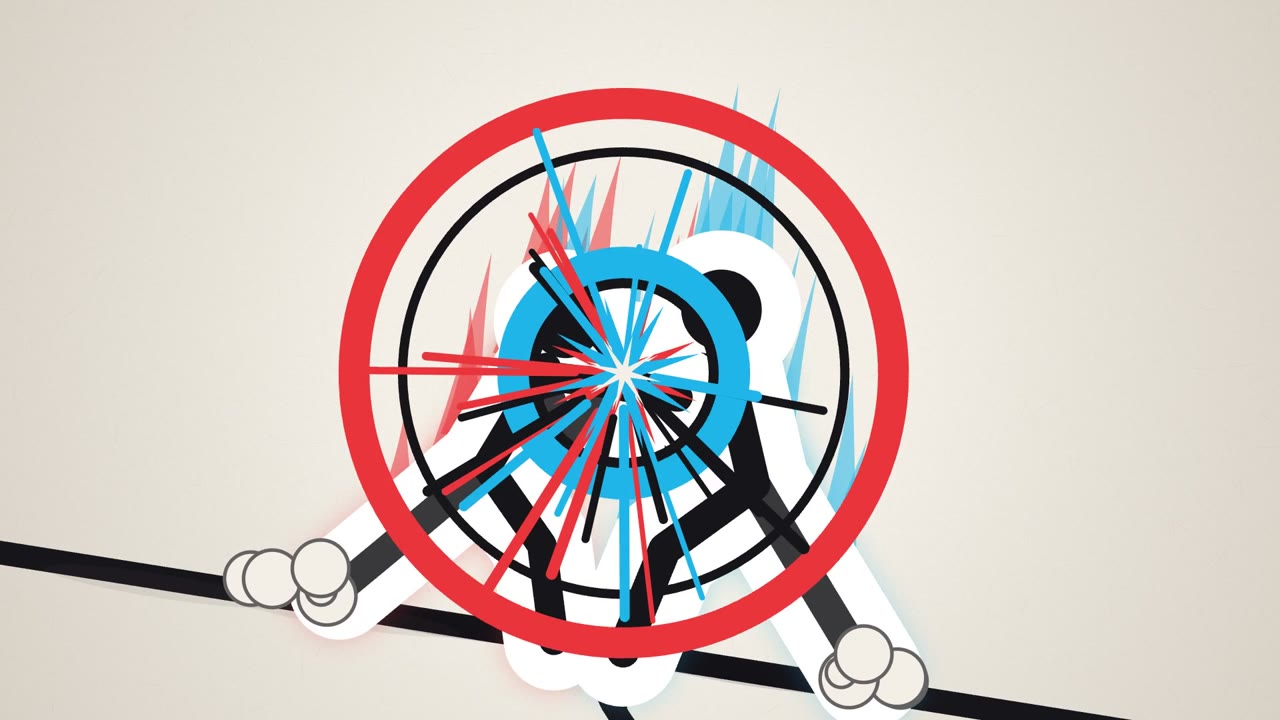
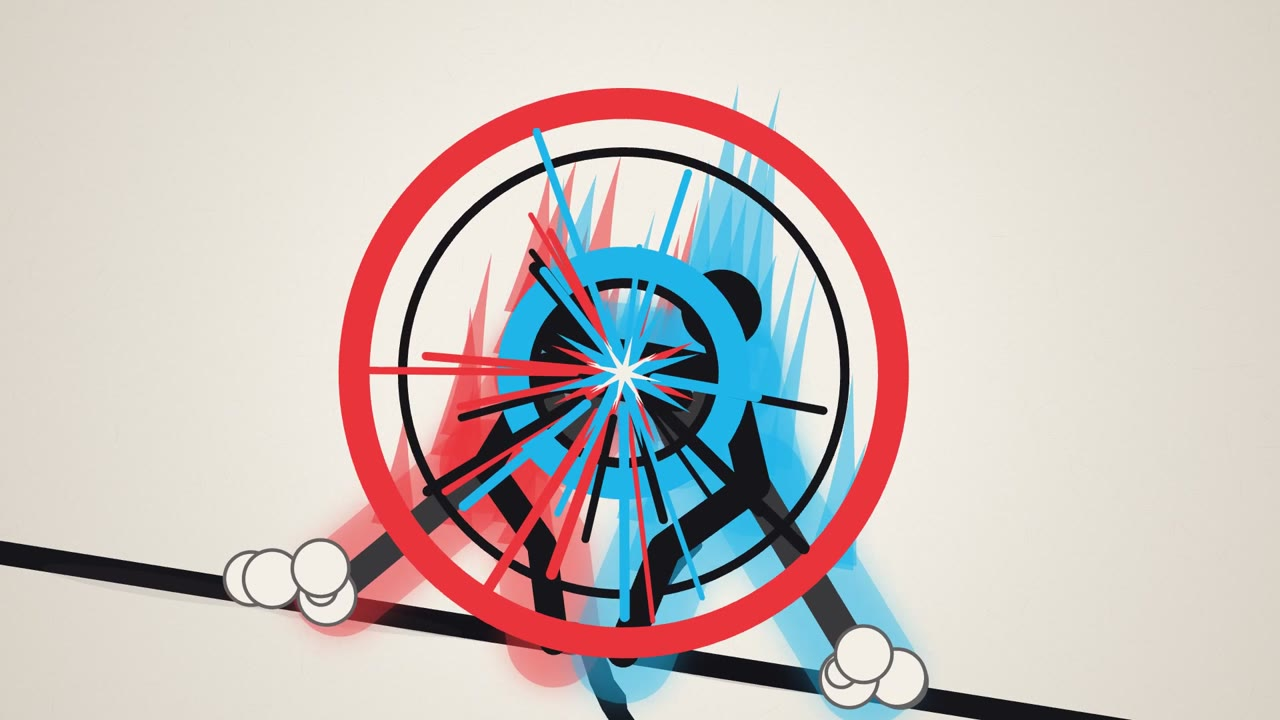
Stickman Action: no outline around the figures
Figures are plain ink strokes on the paper; readability comes from side-on staging,
space between the fighters and the lighter far limbs. Film, poster, stills and frames
re-rendered.

Changed region(s): [[0.2188, 0.3056, 0.7188, 1.0], [0.375, 0.3361, 0.4688, 0.4889], [0.4375, 0.4889, 0.4688, 0.5194]]

diff --git a/styles/stick-action/demo/stick.js b/styles/stick-action/demo/stick.js
@@ -65,24 +65,15 @@ export function mixCol(a, b, t) {
   return '#' + [16, 8, 0].map(s => c(s).toString(16).padStart(2, '0')).join('');
 }
 
-// draw: a white outline pass under the whole figure, then ink; far limbs lightened.
-// o: { ink, outline (colour), farMix, halo (width multiplier), alpha, only: ['aN', ...] }
-export const OUTLINE = '#ffffff';
+// draw: plain ink strokes, no outline; far limbs lightened. o: { ink, farMix, wk (width multiplier), alpha, only: ['aN', ...] }
 export function drawFigure(g, J, o = {}) {
-  const ink = o.ink || INK, out = o.outline || o.paper || OUTLINE, w = J.P.w * (o.wk || 1);
+  const ink = o.ink || INK, w = J.P.w * (o.wk || 1);
   const far = mixCol(ink, PAPER, o.farMix ?? .16);
   const pl = (pts) => { g.beginPath(); g.moveTo(pts[0][0], pts[0][1]); for (let i = 1; i < pts.length; i++) g.lineTo(pts[i][0], pts[i][1]); g.stroke(); };
   g.save(); g.lineCap = 'round'; g.lineJoin = 'round'; if (o.alpha != null) g.globalAlpha = o.alpha;
   const parts = [['aF', far], ['lF', far], ['spine', ink], ['lN', ink], ['aN', ink]].filter(p => !o.only || o.only.includes(p[0]));
-  const strokeOf = (name) => name === 'spine' ? [J.hip, J.neck] : J[name];
-  // the outline goes under the whole figure first, so it never bites into the figure's own strokes;
-  // a figure drawn after another still cuts a clean white gap into it
-  if (o.halo !== 0) {
-    g.strokeStyle = out; g.fillStyle = out; g.lineWidth = w * (o.halo || 3.4);
-    for (const [name] of parts) { pl(strokeOf(name)); if (name === 'spine') { g.beginPath(); g.arc(J.head[0], J.head[1], J.P.head + w * 1.2, 0, 7); g.fill(); } }
-  }
   for (const [name, col] of parts) {
-    g.strokeStyle = col; g.lineWidth = w; pl(strokeOf(name));
+    g.strokeStyle = col; g.lineWidth = w; pl(name === 'spine' ? [J.hip, J.neck] : J[name]);
     if (name === 'spine') { g.fillStyle = ink; g.beginPath(); g.arc(J.head[0], J.head[1], J.P.head, 0, 7); g.fill(); }
   }
   g.restore();

diff --git a/styles/stick-action/demo/fx.js b/styles/stick-action/demo/fx.js
@@ -120,7 +120,7 @@ export function aura(g, J, col, t, amt = 1, seed = 5) {
   if (amt <= 0) return;
   g.save();
   g.shadowColor = col; g.shadowBlur = 40 * amt;
-  drawFigure(g, J, { ink: col, paper: col, halo: 0, wk: 1 + 2.2 * amt, alpha: .35 * amt, farMix: 0 });
+  drawFigure(g, J, { ink: col, wk: 1 + 2.2 * amt, alpha: .35 * amt, farMix: 0 });
   g.shadowBlur = 0;
   const R = rng(seed + Math.floor(t * 24) * 13);
   g.fillStyle = col; g.globalAlpha = .55 * amt;

diff --git a/styles/stick-action/STYLE.md b/styles/stick-action/STYLE.md
@@ -16,7 +16,7 @@ Not Pictogram Motion (geometric signage figures, beat-locked cards), not Whitebo
 ## 2. Materials & rendering
 
 - **Strokes.** Canvas 2D paths, `lineCap` and `lineJoin` round. Stroke width is a property of the figure in world units, about **1/13 of the figure's standing height**, and scales with the camera like everything else in the world. Head diameter ≈ 2.3 stroke widths × 2.2 (about 1/5.5 of the height), always filled.
-- **White outline.** Every figure is drawn twice: first all its strokes about 3.4× wider in pure white (the head disc grown by ~1.2 stroke widths), then in ink. The whole outline goes down before any ink, so it never bites into the figure's own strokes; where two fighters overlap, the one drawn later cuts a clean white gap into the other. The far arm and leg are 12–18 % lighter (ink mixed toward paper), never coloured.
+- **No outline.** Figures are plain ink strokes straight on the paper, never outlined or haloed. Readability comes from staging instead: side-on poses, space between the fighters, and the far arm and leg drawn first and 12–18 % lighter (ink mixed toward paper), never coloured.
 - **Rig.** A skeleton with fixed bone lengths: hips → spine → neck → head; shoulders and hips each carry a two-bone limb solved by analytic IK (target point + bend direction). Poses are keyframes of joint angles or end-effector targets, interpolated per frame; nothing is drawn by hand-moving points. Bone lengths never change except in a deliberate smear (§8).
 - **Ground and contact.** One horizontal ink line, slightly thinner than the figure stroke, extending past the frame. Feet planted on it are locked to it (IK target pinned) until they lift. A flat grey ellipse under each figure shrinks and lightens with height above the ground: the only shading in the style.
 - **Paper.** A warm off-white with a very faint, static grain fixed to the screen (not the world), plus a soft vignette. No paper texture moves, no line boils.
@@ -33,7 +33,7 @@ Not Pictogram Motion (geometric signage figures, beat-locked cards), not Whitebo
 ## 4. Type & subtitles
 
 - Titles and callouts: a heavy condensed sans (e.g. Anton, OFL) in ink, set large, with a thick accent bar under or behind them; they slam in on a hit (scale 1.3 → 1 in 3 frames, one-frame hold of an offset ink shadow). CJK: a heavy sans (e.g. Noto Sans SC Black, subset).
-- On-screen sound words or move names, if used, are part of the drawing: ink letters with a white outline, tilted, held ≥ 1 s.
+- On-screen sound words or move names, if used, are part of the drawing: ink letters, tilted, held ≥ 1 s.
 - Subtitles: a semi-condensed sans (e.g. Barlow Semi Condensed 600, 46–54 px) in ink with a 7–9 px paper-colour outline, centred ~90 px above the bottom; they never sit over a figure's contact point. Hold ≥ max(1.8 s, speech + 0.6 s).
 
 ## 5. Motion quality
@@ -89,7 +89,7 @@ A menu: use the ones your story needs.
 - Limbs that stretch or shrink between keys look broken → solve with fixed-length IK; only smears may stretch.
 - Knees and elbows flipping direction mid-move → give every limb an explicit bend side and keep it unless the pose changes deliberately.
 - Feet sliding on the ground → pin planted feet with IK targets until they lift.
-- Two black figures merging into one blob → side-on staging, space between them, the white outline, the far limbs lightened.
+- Two black figures merging into one blob → side-on staging, clear space between them, the far limbs lightened; never fix it with an outline.
 - Fast motion strobing at 24 fps → smears for limbs that move more than ~1/3 of the figure height per frame.
 - Action too fast to read → holds before strikes, hit-stop on hits, never more than one new action every ~0.4 s for a reader to follow.
 - Line weight changing when the camera zooms → stroke width in world units, transformed with the camera.
@@ -98,7 +98,7 @@ A menu: use the ones your story needs.
 
 ## 10. Engine
 
-In `demo/`: `stick.js` (rig: `figure(pose)` builds joint positions from angles and IK targets with fixed bone lengths, `drawFigure(g, J, o)` draws the white outline + ink with far-limb lightening, `lerpPose`, `ik2`), `moves.js` (pose library and keyframe tracks: stance, guard, punch, kick, dash, jump, block, hit, fall, rise), `fx.js` (smears, speed lines, sparks, dust, shockwave, ground cracks, energy aura and beams), `cam.js` (world → screen camera with zoom, pan, shake, tilt, time remap), `main.js` (shots, paper, title cards, sound events), `music.py` (synthesised score), `mix.py`. A minimal new use: one figure skipping rope, with the rope as a flat ink arc and its slap on the ground as a dust puff, drawn with `figure`, `drawFigure` and `dust`.
+In `demo/`: `stick.js` (rig: `figure(pose)` builds joint positions from angles and IK targets with fixed bone lengths, `drawFigure(g, J, o)` draws the ink strokes with far-limb lightening, `lerpPose`, `ik2`), `moves.js` (pose library and keyframe tracks: stance, guard, punch, kick, dash, jump, block, hit, fall, rise), `fx.js` (smears, speed lines, sparks, dust, shockwave, ground cracks, energy aura and beams), `cam.js` (world → screen camera with zoom, pan, shake, tilt, time remap), `main.js` (shots, paper, title cards, sound events), `music.py` (synthesised score), `mix.py`. A minimal new use: one figure skipping rope, with the rope as a flat ink arc and its slap on the ground as a dust puff, drawn with `figure`, `drawFigure` and `dust`.
 
 ## 11. Variation space
 

diff --git a/styles/stick-action/DEMO.md b/styles/stick-action/DEMO.md
@@ -41,7 +41,7 @@ Foley (`demo/mix.py`, from the page's `window.EV`): pen scratches, swishes pitch
 
 ## Palette & props
 
-- Paper `#f3efe6`, ink `#16151a`, outline `#ffffff` (3.4× the stroke), desk `#2f2a27`; RED's accent `#e8343a`, BLUE's `#1fb5e8`.
+- Paper `#f3efe6`, ink `#16151a`, desk `#2f2a27`; RED's accent `#e8343a`, BLUE's `#1fb5e8`.
 - RED: 290 units tall, a longer spine, low wide stance, fists high. BLUE: 320 units tall, longer legs and arms, upright guard with one hand forward. Same stroke weight (height / 13) and ink; they differ only by build, stance and timing.
 - The sheet is a 3000 × 2300 rectangle on a dark desk; every figure and effect is clipped to it, which is what makes "off the page" literal.
 - Kept marks: the crack at the centre (from 33 s), grey scuffs where feet landed or skidded.
@@ -54,7 +54,7 @@ The pulled-back sheet with "LAST STROKE / 最后一笔" in Anton and Noto Sans S
 
 ```
 styles/stick-action/demo/
-  stick.js   rig: proportions, figure (FK + two-bone IK), lerpPose, drawFigure (white outline + ink), drawFigureDrawing, shadow
+  stick.js   rig: proportions, figure (FK + two-bone IK), lerpPose, drawFigure (ink, far limbs lighter), drawFigureDrawing, shadow
   moves.js   pose library (stance, punch, block, kicks, dash, jump, tumble, hang, kneel, lying, offer…) + track() keyframes
   fx.js      paper, ground line + cracks, smear, sparks, speed lines, dust, shockwave, aura
   cam.js     world → screen camera (zoom, dutch, shake)
